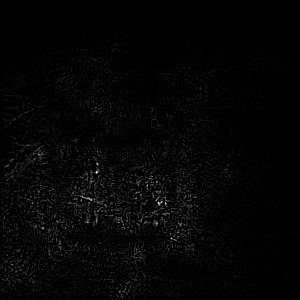
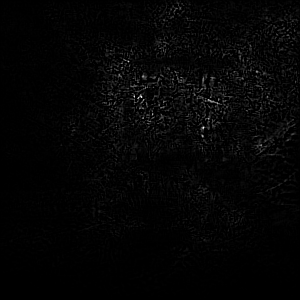
saliency results

diff --git a/saliency_map.py b/saliency_map.py
@@ -88,7 +88,7 @@ for category in args.classes:
     map = 255*map/map.max()
 
     vis = np.swapaxes(input.data.cpu().numpy()[0]+map, 0, 2)
-    cv2.imwrite(args.save_folder + args.input.split('.')[0] + '_saliency_' + str(category) + '.png', np.rot90(map))
+    cv2.imwrite(args.save_folder + args.input.split('.')[0] + '_saliency_' + str(category) + '.png', np.rot90(map, k=3))
     cv2.imwrite(args.save_folder + args.input.split('.')[0] + '_both_' + str(category) + '.png', vis)
 
     input.grad.data.zero_()
